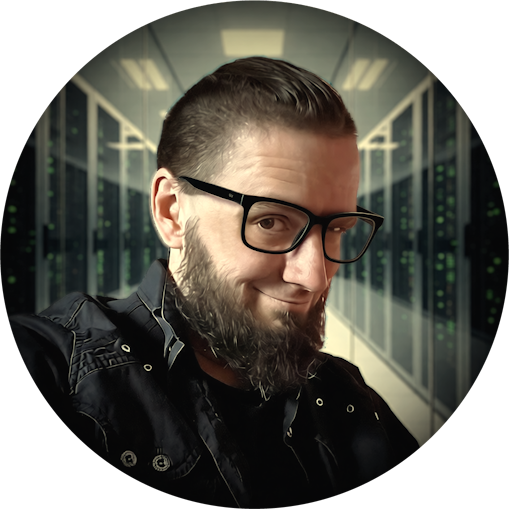
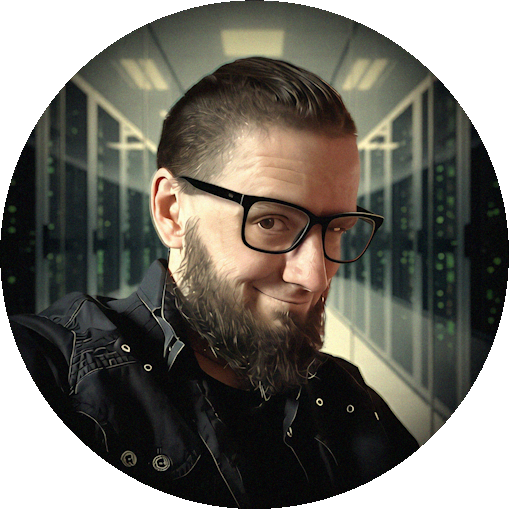
Update index.html: revise personal narrative to emphasize passion for AI-driven development and the artistry of programming; replace images with new versions for enhanced visual appeal.

diff --git a/index.html b/index.html
@@ -356,10 +356,16 @@
             <div class="max-w-6xl mx-auto grid md:grid-cols-2 gap-12 items-center">
                 <div class="space-y-6">
                     <p class="text-gray-400 leading-relaxed">
-                        Мой путь начался с гуманитарных наук — филологии, — но страсть к алгоритмам и логике привела меня в мир Python-разработки. Сегодня я строю мосты между искусственным интеллектом и повседневными задачами: использую современные фреймворки и LLM-инструменты для создания скриптов, приложений и целых систем. Для меня код — это язык, на котором человечество пишет будущее, и я горжусь тем, что помогаю делать этот диалог более осмысленным и эффективным
+                        Со свежими силами и с самого начала я нахожусь на передовой нового (AI-Driven) поколения разработки. Увлечённо развиваюсь, занимаясь тем, что мне по-настоящему нравится, делом, которое я считаю важным.
                     </p>
                     <p class="text-gray-400 leading-relaxed">
-                        В то время как большинство обывателей бесконечно ноют о несостоятельности ИИ-ассистированного подхода к разработке, я уже более двух лет занимаюсь интенсивной практикой применения LLM-инструментов для разработки самых разнообразных приложений, которые РАБОТАЮТ!
+                        Однако мой путь в Python-разработку начался отнюдь не с программирования, он начался с филологии — глубокого понимания самой сути языка как чрезвычайно сложного и развитого средства передачи информации, ставшего ключевым в триумфальном становлении человеческой цивилизации. Ничто не заменит естественные языки в их гибкости и точности передачи смыслов, однако в скорости, точности и объёме передачи информации равных нет языкам формальным, в частности языкам программирования.
+                    </p>
+                    <p class="text-gray-400 leading-relaxed">
+                        В написании кода, коротких лаконичных строк, которые в момент компиляции или интерпретации запускают плеяды процессов и мириады вычислений, позволяя в мгновения секунды решать сложнейшие задачи, есть особое могущество, которое покорило меня.
+                    </p>
+                    <p class="text-gray-400 leading-relaxed">
+                        Разработка программного обеспечения — это настоящее творчество, своего рода поэзия, содержание, форма и назначение которой всегда остаётся за автором, подчиняется ему. Поэзия способная создавать для нас мощнейшие инструменты и воплощать целые системы, которые экономят время, ускоряют прогресс, наводят порядок, делают нашу жизнь более понятной и предсказуемой.
                     </p>
                     <div class="grid grid-cols-2 gap-4 pt-4">
                         <div class="bg-dark-card p-4 rounded-lg border border-dark-border">
